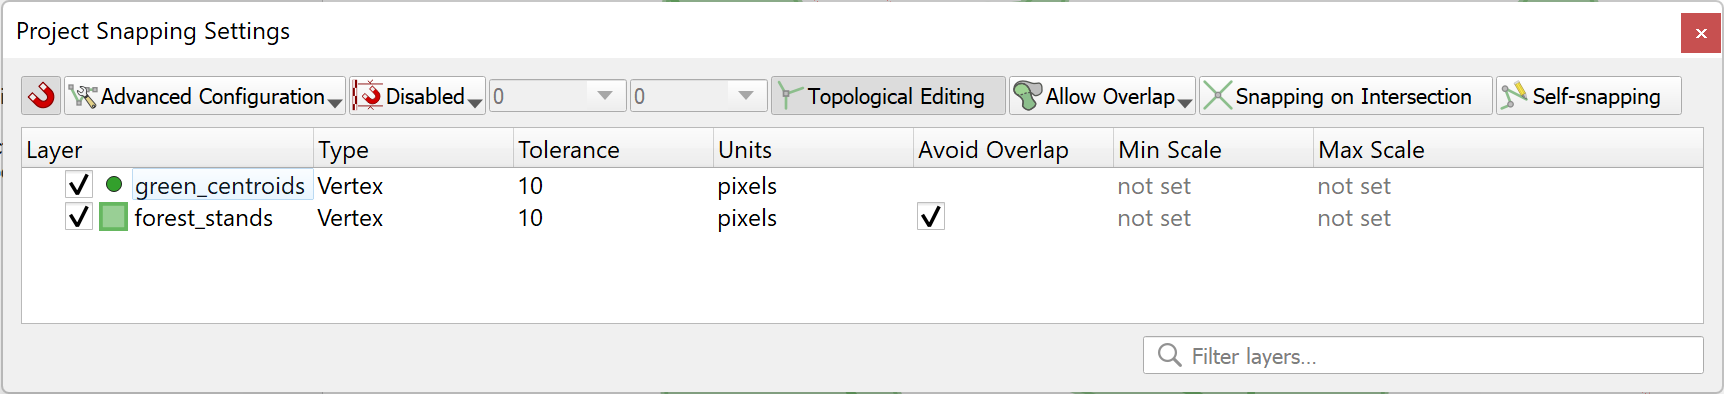
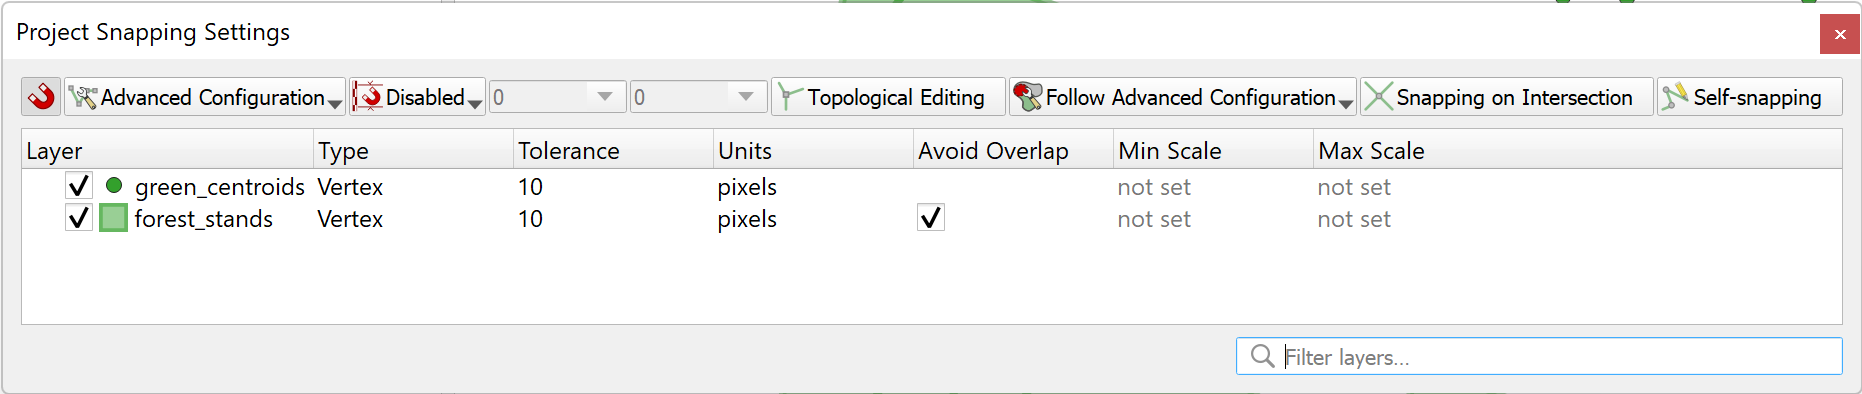
Changed snapping tools dialog details
Also added spacing after images

diff --git a/docs/training_manual/forestry/stands_digitazing.rst b/docs/training_manual/forestry/stands_digitazing.rst
@@ -40,6 +40,7 @@ original scanned map:
 
 .. figure:: img/gimp_map.png
    :align: center
+|
 
 Now you can select the pixels in the image that are making up the forest stands'
 borders (the greenish pixels):
@@ -58,6 +59,7 @@ borders (the greenish pixels):
 
 .. figure:: img/green_px_selected.png
    :align: center
+|
 
 Once you are done with the selection you need to copy this selection as a new
 layer and then save it as separate image file:
@@ -72,7 +74,8 @@ layer and then save it as separate image file:
 
 .. figure:: img/saving_green_px.png
    :align: center
-   
+!
+
 * Finally, select :menuselection:`File --> Export...`, set :guilabel:`Select
   File Type (By Extension)` as a :guilabel:`TIFF image`, select the
   :kbd:`digitizing` folder and name it :kbd:`rautjarvi_map_green.tif`.
@@ -118,6 +121,7 @@ Zoom in and see what the polygons look like. You will get something like this:
 
 .. figure:: img/green_polygons.png
    :align: center
+|
 
 Next one option to get points out of those polygons is to get their centroids:
 
@@ -129,6 +133,7 @@ Next one option to get points out of those polygons is to get their centroids:
 
 .. figure:: img/green_points.png
    :align: center
+|
 
 Now you can remove the :guilabel:`rautjarvi_green_polygon` layer from the TOC.
 
@@ -154,6 +159,7 @@ the main roads (wide pink lines) and the lake:
 
 .. figure:: img/forest_stands_to_digitize.png
    :align: center
+|
 
 * Go to the :kbd:`digitizing` folder using your file manager browser.
 * Drag and drop the :kbd:`forest_stands.shp` vector file to your map.
@@ -167,16 +173,18 @@ have already been digitized:
 
 Now, if you remember past modules, we have to set up and activate the snapping options:
 
-* Go to :menuselection:`Project --> Snapping options...`.
-* Activate the snapping for the :kbd:`green_centroids` and the :kbd:`forest_stands` layers.
-* Set their :guilabel:`Tolerance` to 10 pixels.
-* Check the :guilabel:`Avoid Overlap` box for the :kbd:`forest_stands` layer.
+* Go to :menuselection:`Project --> Snapping options...`
+* Check the :kbd:`green_centroids` and :kbd:`forest_stands` layers
+* Set :guilabel:`Type` for each layer to :kbd:`Vertex`
+* Set  :guilabel:`Tolerance` for each layer to :kbd:`10 pixels`
+* Check the :guilabel:`Avoid Overlap` box for the :kbd:`forest_stands` layer
 * Check |topologicalEditing| :sup:`Topological editing`
+* Choose |avoidIntersectionsLayers| :sup:`Follow Advanced Configuration`
 * Close the pop-up
 
 .. figure:: img/snapping_settings_forest.png
    :align: center
-
+|
 
 With these snapping settings, whenever you are digitizing and get close enough
 to one of the points in the centroids layer or any vertex of your digitized
@@ -185,7 +193,7 @@ polygons, a pink square will appear on the point that will be snapped to.
 Finally, turn off the visibility of all the layers except :kbd:`forest_stands`
 and :kbd:`rautjarvi_georef`. Make sure that the map image has not transparency any more.
 
-A couple of important things to note before you start digitizing:
+A few important things to note before you start digitizing:
 
 * Don't try to be too accurate with the digitizing of the borders.
 * If a border is a straight line, digitize it with just two nodes. In general,
@@ -207,6 +215,7 @@ Now you can start digitizing:
 
 .. figure:: img/dgitizing_357_1.png
    :align: center
+|
 
 * When you are done, right click to end digitizing that polygon.
 * Enter the forest stand :kbd:`id` (in this case 357).
@@ -220,6 +229,7 @@ Your digitized polygon will look like this:
 
 .. figure:: img/dgitizing_357_3.png
    :align: center
+|
 
 Now for the second polygon, pick up the stand number 358. Make sure that the
 :guilabel:`Avoid int.` is checked for the :kbd:`forest_stands` layer. This
@@ -239,6 +249,7 @@ to automatically obtain a common border.
 
 .. figure:: img/dgitizing_358_5.png
    :align: center
+|
 
 The part of the polygon that was overlapping the existing polygon has been
 automatically trimmed out and you are left with a common border, as you intended
@@ -267,6 +278,7 @@ Your result will look like this:
 
 .. figure:: img/stands_fully_digitized.png
    :align: center
+|
 
 |basic| |FA| Joining the Forest Stand Data
 -------------------------------------------------------------------------------
@@ -289,6 +301,7 @@ in the same folder.
 
 .. figure:: img/inventory_csv_import.png
    :align: center
+|
 
 To add the data from the :kbd:`.csv` file:
 
@@ -358,6 +371,8 @@ The topic of the next lesson will be the creation of forest stands using current
 aerial photos and the addition of some relevant information to your dataset.
 
 .. |topologicalEditing| image:: /static/common/mIconTopologicalEditing.png
+   :width: 1.5em
+.. |avoidIntersectionsLayers| image:: /static/common/mActionAvoidIntersectionsLayers.png
    :width: 1.5em
    
 .. Substitutions definitions - AVOID EDITING PAST THIS LINE
